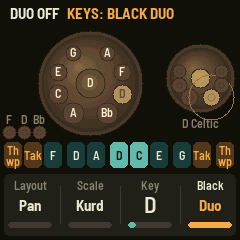
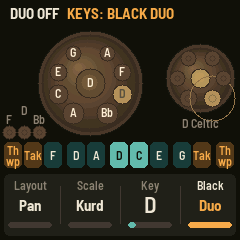
Duo screen: the second pan's fields evenly round its ding; SaByeD credited
The second pan's six fields used the first pan's eight positions, so they
bunched toward the bottom with a gap at the top. They now sit evenly round
its ding, 60 degrees apart, still climbing in the zigzag from the bottom
(field_spot_even).

SaByeD is Colin Foulke's scale (CFoulke Aether): E / A B C# D# E F# G# B,
as listed on his maker profile, the notes already in place. Credited in the
code, the README, the page and the changelog.

Changed region(s): [[0.7, 0.2042, 0.9917, 0.525], [0.0875, 0.4375, 0.1167, 0.525]]

diff --git a/web/emu/index.html b/web/emu/index.html
@@ -194,7 +194,7 @@ footer { margin: 2rem 0 0; color: var(--muted); font-size: .88rem; }
         <tr><td>Akebono</td><td>D</td><td class="notes"><b>D3</b> / A Bb D E F A Bb D</td><td>Japanese pentatonic, spare and poignant</td></tr>
         <tr><td>Major</td><td>C</td><td class="notes"><b>C3</b> / G A B C D E F G</td><td>Plain major, sunny</td></tr>
         <tr><td>Mixolydian</td><td>G</td><td class="notes"><b>G3</b> / D E F G A B C D</td><td>Major with a flat seventh, bluesy and bright</td></tr>
-        <tr><td>SaByeD</td><td>E</td><td class="notes"><b>E3</b> / A B C# D# E F# G# B</td><td>Major with its fourth below the octave: sweet and open</td></tr>
+        <tr><td>SaByeD</td><td>E</td><td class="notes"><b>E3</b> / A B C# D# E F# G# B</td><td>Colin Foulke's: major, its fourth below the octave, sweet and open</td></tr>
       </tbody>
     </table>
   </div>

diff --git a/firmware/src/app/ui.c b/firmware/src/app/ui.c
@@ -843,6 +843,20 @@ static spot_t field_spot(int i, int32_t cx, int32_t cy, int32_t R)
     return s;
 }
 
+/* the same for a pan of n fields set evenly round its ding (the second pan's six: 60 degrees apart),
+ * still climbing in the zigzag from the bottom: field i at (2p + 1) x 180 / n degrees from straight down,
+ * the odd ones left */
+static spot_t field_spot_even(int i, int n, int32_t cx, int32_t cy, int32_t R)
+{
+    const int p = (i - 1) / 2, ring = R * 68 / 100, side = (i & 1) ? -1 : 1;
+    const float a = (float)(2 * p + 1) * FM_PI / (float)n;
+    spot_t s;
+    s.x = (int16_t)(cx + (int32_t)((float)(side * ring) * fm_sinf(a) + (side < 0 ? -0.5f : 0.5f)));
+    s.y = (int16_t)(cy + (int32_t)((float)ring * fm_cosf(a) + (fm_cosf(a) < 0.0f ? -0.5f : 0.5f)));
+    s.r = (int16_t)(R * (22 - 2 * p) / 100);
+    return s;
+}
+
 static void draw_shell(int32_t cx, int32_t cy, int32_t R, uint16_t dark, uint16_t light, int side_glow[2])
 {
     int32_t r;
@@ -921,7 +935,7 @@ static void draw_pan(void)
         const int32_t dx = 200, dy = 50, dr = 34;
         draw_shell(dx, dy, dr, dark, light, (int[2]){0, 0});
         for (i = 0; i < KM_NDUO; i++) {
-            spot_t s = i ? field_spot(i, dx, dy, dr) : (spot_t){(int16_t)dx, (int16_t)dy, 9};
+            spot_t s = i ? field_spot_even(i, KM_NDUO - 1, dx, dy, dr) : (spot_t){(int16_t)dx, (int16_t)dy, 9};
             int c = duo_cents(i);
             if (i)
                 s.r = (int16_t)(s.r + 1);

diff --git a/firmware/src/dsp/handpan.c b/firmware/src/dsp/handpan.c
@@ -62,9 +62,9 @@ static const scale_t SCALES[KM_NSCALE] = {
     {"Akebono", 2, 8, {7, 8, 12, 14, 15, 19, 20, 24}},     /* D / A Bb D E F A Bb D */
     {"Major", 0, 8, {7, 9, 11, 12, 14, 16, 17, 19}},       /* C / G A B C D E F G */
     {"Mixolyd.", 7, 8, {7, 9, 10, 12, 14, 16, 17, 19}},    /* G / D E F G A B C D */
-    {"SaByeD", 4, 8, {5, 7, 9, 11, 12, 14, 16, 19}},       /* E / A B C# D# E F# G# B: major, its fourth
-                                                            * tucked below the octave (Sela's D Sabye,
-                                                            * PanAmor's E Sabye, Isthmus's E SaByeD) */
+    {"SaByeD", 4, 8, {5, 7, 9, 11, 12, 14, 16, 19}},       /* E / A B C# D# E F# G# B: Colin Foulke's
+                                                            * (CFoulke Æther): major, its fourth tucked
+                                                            * below the octave */
 };
 
 static const scale_t *scale_of(int s) { return &SCALES[(unsigned)s < KM_NSCALE ? s : 0]; }

diff --git a/tests/host/handpan_test.c b/tests/host/handpan_test.c
@@ -216,7 +216,7 @@ static void test_music(void)
                   got, SP[i].name);
         }
     }
-    {   /* E SaByeD (Isthmus; Sela's D Sabye and PanAmor's E Sabye the same steps): E3 / A B C# D# E F# G# B */
+    {   /* E SaByeD, Colin Foulke's (his Æther pans): E3 / A B C# D# E F# G# B */
         static const int SABYE[9] = {5200, 5700, 5900, 6100, 6300, 6400, 6600, 6800, 7100};
         own = km_pan_notes(10, km_scale_root(10), 0, n);
         CHECK(!strcmp(km_scale_name(10), "SaByeD") && km_scale_root(10) == 4 && own == 9, "SaByeD in E");

diff --git a/CHANGELOG.md b/CHANGELOG.md
@@ -9,9 +9,10 @@ taken from its section below. Add the section in the same pull request as the `V
 - **The second pan is laid out like the first.** With Black on Duo, its ding is now on the middle of
   the seven keys (black key 6) and its notes alternate outward, left then right, as on the white keys.
   It follows Layout: Mirror goes right first, Linear runs low to high. Its ding's key glows dimly.
-- **A new scale, SaByeD**, in E by default (E3 / A B C# D# E F# G# B): major, with its fourth tucked
-  below the octave, as on Isthmus's E SaByeD, Sela's D Sabye and PanAmor's E Sabye. It sits after
-  Mixolydian: one step back from Kurd on ALGORITHM.
+- **A new scale, SaByeD**, Colin Foulke's, in E as he builds it (E3 / A B C# D# E F# G# B): major,
+  with its fourth tucked below the octave. It sits after Mixolydian: one step back from Kurd on
+  ALGORITHM.
+- **The second pan's fields sit evenly round its ding** on the screen, as the first pan's do.
 - **Note names spelled as each scale spells them:** an E pan shows G# and D# (not Ab and Eb), a D Kurd
   still shows Bb. On the screen and on the web page's keys.
 

diff --git a/README.md b/README.md
@@ -261,7 +261,7 @@ any key: PRESETS moves the whole pan.
 | Akebono    | D         | D3 / A Bb D E F A Bb D            | 7 8 12 14 15 19 20 24       | Japanese pentatonic, spare                     |
 | Major      | C         | C3 / G A B C D E F G              | 7 9 11 12 14 16 17 19       | Plain major, sunny                             |
 | Mixolydian | G         | G3 / D E F G A B C D              | 7 9 10 12 14 16 17 19       | Major with a flat seventh                      |
-| SaByeD     | E         | E3 / A B C# D# E F# G# B          | 5 7 9 11 12 14 16 19        | Major, its fourth below the octave: sweet, open |
+| SaByeD     | E         | E3 / A B C# D# E F# G# B          | 5 7 9 11 12 14 16 19        | Colin Foulke's: major, its fourth below the octave, sweet and open |
 
 The ding always sits between A2 and G#3, where the makers put it; OCT−/OCT+ move the whole pan.
 Makers vary these lists a little from pan to pan.
